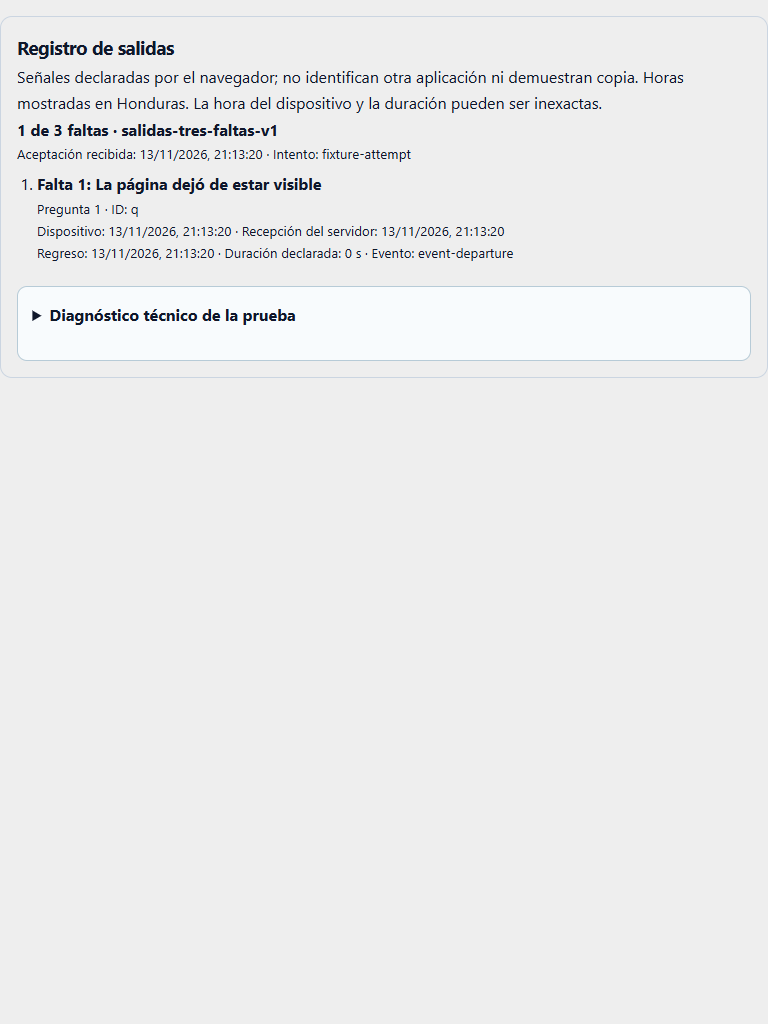
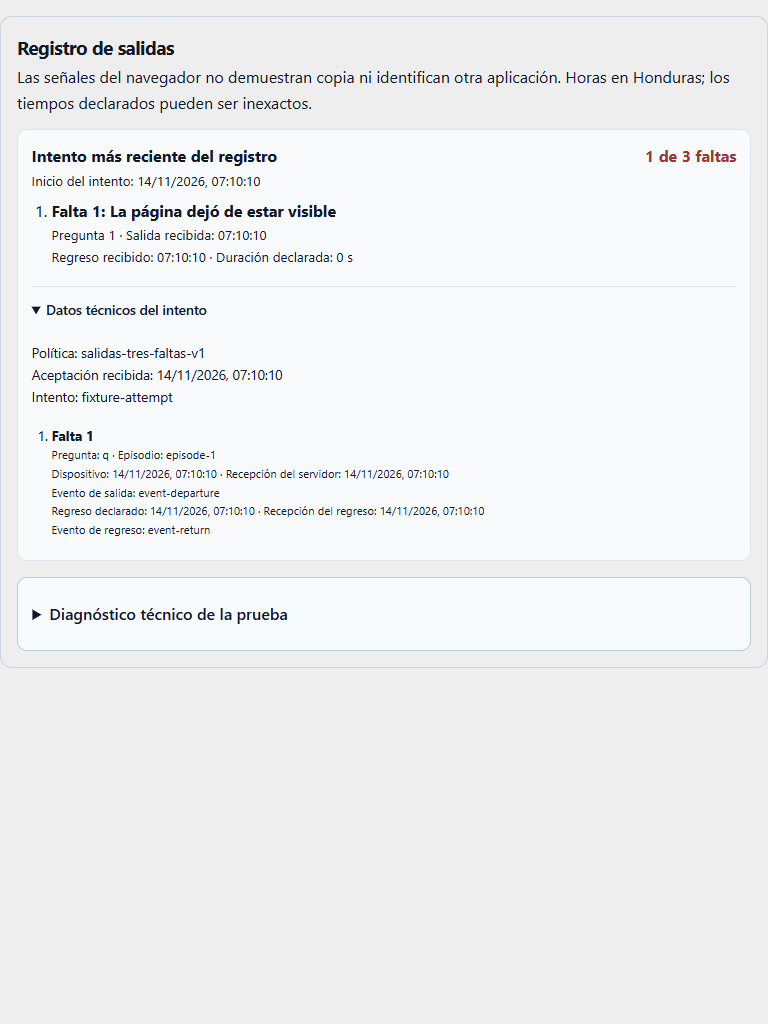
fix: resumir salidas de la entrega y separar intentos anteriores

diff --git a/client/src/components/QuizActivityReview.jsx b/client/src/components/QuizActivityReview.jsx
@@ -5,40 +5,71 @@ import "./QuizActivity.css";
 import QuizDiagnosticsReview from "./QuizDiagnosticsReview";
 
 const stamp = value => value ? new Date(value).toLocaleString("es-HN", { timeZone: "America/Tegucigalpa", hour12: false }) : "Sin registrar";
+const hour = value => value ? new Date(value).toLocaleTimeString("es-HN", { timeZone: "America/Tegucigalpa", hour12: false }) : "Sin registrar";
+
+function AttemptReview({ attempt, label }) {
+  const events = Array.isArray(attempt.eventos) ? attempt.eventos : [];
+  const departures = events.filter(event => event.tipo === "salida");
+  return <article className="quiz-activity-review__attempt" aria-label={label}>
+    <header><strong>{label}</strong><span className="quiz-activity-review__count" data-clear={attempt.faltas === 0}>{attempt.faltas === 0 ? "Sin faltas registradas" : `${attempt.faltas} de 3 faltas`}</span></header>
+    <small>Inicio del intento: {stamp(attempt.aceptado_at)}</small>
+    {!departures.length ? <p>{attempt.faltas > 0 ? "El contador registra faltas, pero el detalle de las salidas no está disponible." : "Sin salidas registradas en este intento."}</p> : <ol>{departures.map(event => {
+      const returned = events.find(row => row.tipo === "regreso" && row.episodio_id === event.episodio_id);
+      const elapsed = returned ? Math.round((new Date(returned.hora_cliente) - new Date(event.hora_cliente)) / 1000) : null;
+      const duration = Number.isFinite(elapsed) && elapsed >= 0 ? elapsed : null;
+      return <li key={event.id}>
+        <strong>Falta {event.falta}: {(event.senales || []).map(signal => QUIZ_ACTIVITY_SIGNALS[signal] || signal).join(" · ")}</strong>
+        <small>Pregunta {event.pregunta_indice + 1} · Salida{event.recibido_at ? " recibida" : " declarada"}: {hour(event.recibido_at || event.hora_cliente)}</small>
+        <small>{returned ? `Regreso${returned.recibido_at ? " recibido" : " declarado"}: ${hour(returned.recibido_at || returned.hora_cliente)}${duration === null ? "" : ` · Duración declarada: ${duration} s`}` : "Regreso no registrado"}</small>
+      </li>;
+    })}</ol>}
+    <details className="quiz-activity-review__technical"><summary>Datos técnicos del intento</summary>
+      <p>Política: {attempt.politica || "Sin registrar"}<br />Aceptación recibida: {stamp(attempt.aceptado_at)}<br />Intento: {attempt.id}</p>
+      {departures.length > 0 && <ol>{departures.map(event => {
+        const returned = events.find(row => row.tipo === "regreso" && row.episodio_id === event.episodio_id);
+        return <li key={event.id}><strong>Falta {event.falta}</strong>
+          <small>Pregunta: {event.pregunta_id || "Sin identificador"} · Episodio: {event.episodio_id}</small>
+          <small>Dispositivo: {stamp(event.hora_cliente)} · Recepción del servidor: {stamp(event.recibido_at)}</small>
+          <small>Evento de salida: {event.id}</small>
+          {returned && <><small>Regreso declarado: {stamp(returned.hora_cliente)} · Recepción del regreso: {stamp(returned.recibido_at)}</small><small>Evento de regreso: {returned.id}</small></>}
+        </li>;
+      })}</ol>}
+    </details>
+  </article>;
+}
+
 export default function QuizActivityReview({ section, week, account, fallback }) {
-  const [rows, setRows] = useState(null);
-  const [error, setError] = useState(false);
+  const identity = JSON.stringify([section, week, account]);
+  const [result, setResult] = useState(null);
+  const rows = result?.identity === identity ? result.rows : null;
+  const error = result?.identity === identity && result.error;
   const [version, setVersion] = useState(0);
   useEffect(() => {
     let cancelled = false;
-    setRows(null);setError(false);
+    setResult(null);
     api.pruebas.getActivity(section, week, account).then(result => {
       if (!result?.success) throw Error();
-      if (!cancelled) setRows(result.data);
-    }).catch(() => { if (!cancelled) setError(true); });
+      if (!cancelled) setResult({identity, rows:result.data || [], error:false});
+    }).catch(() => { if (!cancelled) setResult({identity, rows:null, error:true}); });
     return () => { cancelled = true; };
   }, [section, week, account, version]);
-  const attempts = rows || (fallback ? [{ id: fallback.intento_id, politica: fallback.politica, aceptado_at: fallback.aceptado_at, faltas: fallback.faltas, eventos: fallback.eventos }] : []);
+  const copy = fallback?.intento_id ? {...fallback, id:fallback.intento_id} : null;
+  const attempts = [...new Map((rows || []).map(attempt => [attempt.id, attempt])).values()].sort((a,b) => (Date.parse(b.aceptado_at) || 0) - (Date.parse(a.aceptado_at) || 0));
+  const primary = copy ? attempts.find(attempt => attempt.id === copy.id) || copy : attempts[0];
+  const history = attempts.filter(attempt => attempt.id !== primary?.id);
   return <section className="quiz-activity-review" aria-label="Registro de salidas de la prueba">
     <h3>Registro de salidas</h3>
     {fallback?.falta_grave && <p role="alert"><strong>Falta grave: venció el plazo de 10 segundos para confirmar el regreso. La prueba se envió con las respuestas existentes.</strong></p>}
-    <p>Señales declaradas por el navegador; no identifican otra aplicación ni demuestran copia. Horas mostradas en Honduras. La hora del dispositivo y la duración pueden ser inexactas.</p>
+    <p>Las señales del navegador no demuestran copia ni identifican otra aplicación. Horas en Honduras; los tiempos declarados pueden ser inexactos.</p>
     {rows === null && !error && <p role="status">Consultando registro…</p>}
     {error && <p role="alert">No se pudo consultar la bitácora independiente. {fallback && "Se muestra la copia guardada con la entrega."} <button type="button" onClick={() => setVersion(value => value + 1)}>Reintentar</button></p>}
-    {rows && !rows.length && <p>Esta entrega no tiene un registro de la nueva política.</p>}
-    {attempts.map(attempt => <div key={attempt.id}>
-      <strong>{attempt.faltas} de 3 faltas · {attempt.politica}</strong>
-      <small>Aceptación recibida: {stamp(attempt.aceptado_at)} · Intento: {attempt.id}</small>
-      <ol>{attempt.eventos.filter(event => event.tipo === "salida").map(event => {
-        const returned = attempt.eventos.find(row => row.tipo === "regreso" && row.episodio_id === event.episodio_id);
-        const duration = returned ? Math.max(0, Math.round((new Date(returned.hora_cliente) - new Date(event.hora_cliente)) / 1000)) : null;
-        return <li key={event.id}><strong>Falta {event.falta}: {event.senales.map(signal => QUIZ_ACTIVITY_SIGNALS[signal]).join(" · ")}</strong>
-          <small>Pregunta {event.pregunta_indice + 1} · ID: {event.pregunta_id || "Sin pregunta"}</small>
-          <small>Dispositivo: {stamp(event.hora_cliente)} · Recepción del servidor: {stamp(event.recibido_at)}</small>
-          <small>{returned ? `Regreso: ${stamp(returned.hora_cliente)} · Duración declarada: ${duration} s` : "Regreso no registrado"} · Evento: {event.id}</small>
-        </li>;
-      })}</ol>
-    </div>)}
+    {rows && !primary && <p>Esta entrega no tiene un registro de salidas disponible.</p>}
+    {!copy && primary && <p>La entrega no indica qué intento le corresponde. Se muestra el más reciente de esta cuenta y semana.</p>}
+    {primary && <AttemptReview key={primary.id} attempt={primary} label={copy ? "Intento de esta entrega" : "Intento más reciente del registro"} />}
+    {history.length > 0 && <details className="quiz-activity-review__history"><summary>Historial de otros intentos ({history.length})</summary>
+      <p>Cada intento tiene su propio contador. Las faltas de estos intentos no se suman a las de la entrega mostrada.</p>
+      {history.map(attempt => <AttemptReview key={attempt.id} attempt={attempt} label="Otro intento guardado" />)}
+    </details>}
     <QuizDiagnosticsReview key={`${section}_${week}_${account}`} section={section} week={week} account={account} />
   </section>;
 }

diff --git a/client/src/components/QuizActivity.css b/client/src/components/QuizActivity.css
@@ -15,6 +15,15 @@
 .quiz-activity-review ol { padding-left:1.25rem; }
 .quiz-activity-review li { padding-block:.4rem; }
 .quiz-activity-review small { display:block; }
+.quiz-activity-review__attempt { margin-block:.75rem;padding:.85rem;border:1px solid #dce5ed;border-radius:.65rem;background:#f8fafc; }
+.quiz-activity-review__attempt header { display:flex;flex-wrap:wrap;align-items:center;gap:.4rem .8rem;justify-content:space-between; }
+.quiz-activity-review__count { font-weight:700;color:#9f3535; }
+.quiz-activity-review__count[data-clear="true"] { color:#23644b; }
+.quiz-activity-review__attempt p { margin-block:.6rem; }
+.quiz-activity-review details > summary { min-height:44px;display:list-item;align-content:center;cursor:pointer;font-weight:600;padding-block:.5rem; }
+.quiz-activity-review details > summary:focus-visible { outline:3px solid #8cc8e0;outline-offset:2px;border-radius:.25rem; }
+.quiz-activity-review__history,.quiz-activity-review__technical { border-top:1px solid #dce5ed;margin-top:.7rem; }
+.quiz-activity-review__technical { font-size:.85rem; }
 .quiz-activity-warning { position:fixed;inset:0;z-index:1000000;display:grid;place-items:center;background:#330f12;color:white;padding:1rem;overflow:auto; }
 .quiz-activity-warning > div { box-sizing:border-box;width:min(100%,36rem);max-height:calc(100dvh - 2rem);overflow:auto;display:grid;justify-items:center;gap:1rem;text-align:center;padding:clamp(.75rem,3vw,2rem); }
 .quiz-activity-warning svg { color:#ffcc70;flex:none; }

diff --git a/docs/mapa-instructores.md b/docs/mapa-instructores.md
@@ -113,4 +113,6 @@ La revisión posterior a la migración, sus correcciones y límites están en [V
 
 ## Registro de salidas en pruebas
 
+La vista destaca el intento vinculado a `auditoria.actividad.intento_id` de la entrega; si no hay vínculo, lo etiqueta como el intento más reciente del registro. Presenta un resumen sin listas vacías, con pregunta, hora de salida y regreso y duración declarada. El historial de otros intentos permanece cerrado inicialmente y aclara que sus contadores son independientes. Los identificadores, la política y las horas de dispositivo/recepción completas están en «Datos técnicos del intento». Una entrega con cero faltas no hereda visualmente las de intentos anteriores. Si falla la consulta independiente o falta el intento vinculado en su respuesta, conserva la copia guardada con la entrega. No cambia los datos ni las reglas del contador.
+
 En la revisión de una entrega, `QuizActivityReview.jsx` consulta `/api/pruebas/seccion/:seccion_id/semana/:semana/actividad/estudiante/:numero_cuenta`. Reutiliza los permisos de revisión de la semana; muestra aceptación, faltas, señales, preguntas, las horas del dispositivo y del servidor y los regresos. La bitácora está separada de respuestas y notas y conserva los intentos anteriores cuando se autoriza una nueva rendición. Las señales del navegador no prueban copia ni identifican otra aplicación. Véase [Seguridad y funcionamiento de pruebas](seguridad-pruebas.md).
